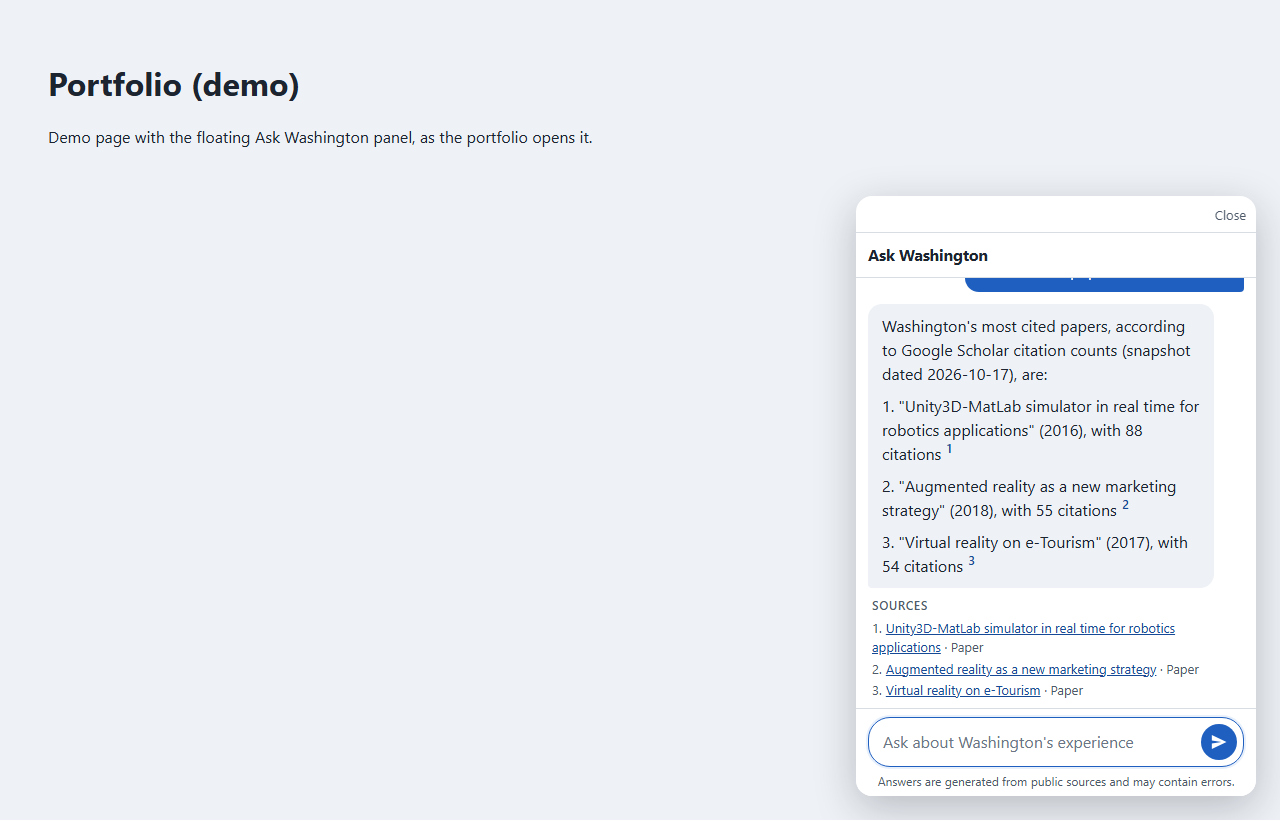
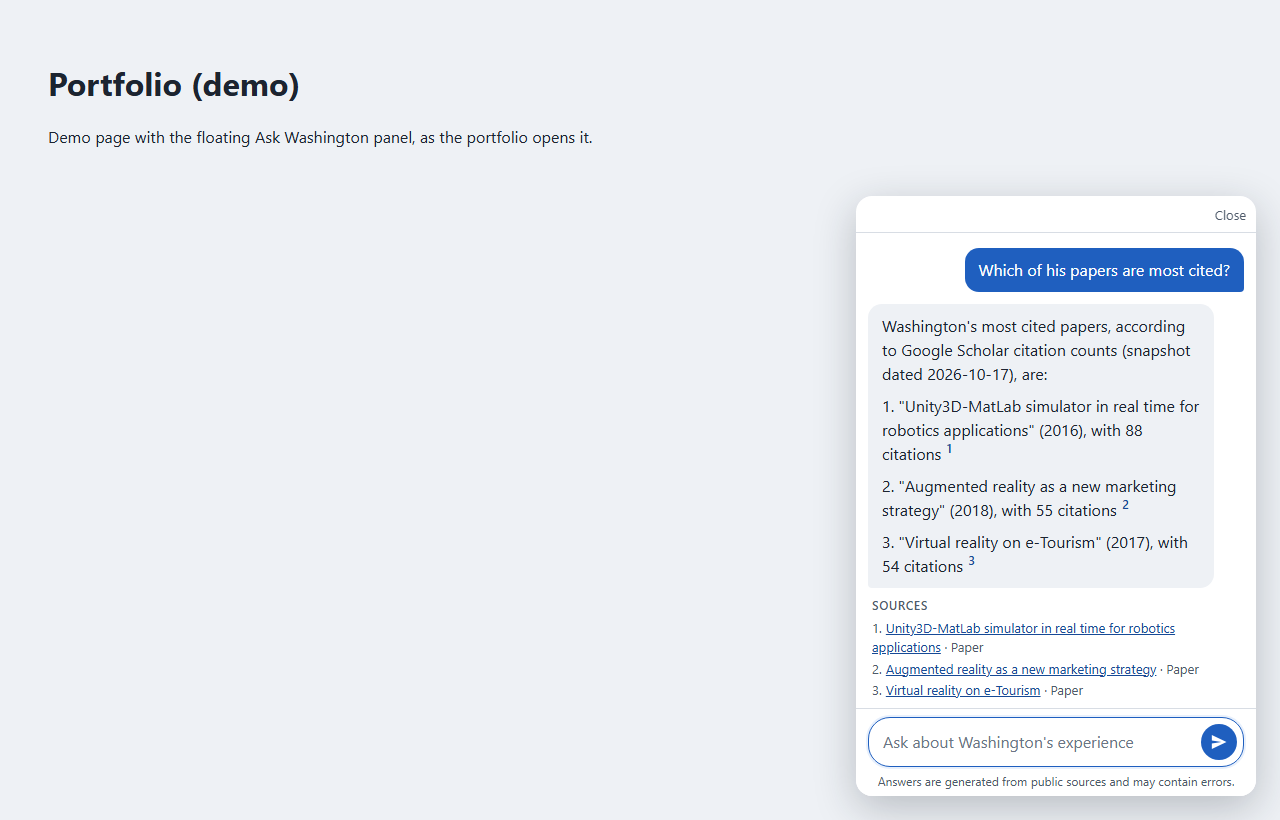
P20d: hide the chat header in widget mode
- ?embed=1: the portfolio panel already shows the title, so the header is
  visually hidden (h1 kept for screen readers; subtitle and profile links out)
- The full page keeps its header
- Playwright checks for both cases; widget screenshots updated; README and
  PROJECT.md

Changed region(s): [[0.6875, 0.3049, 0.9688, 0.3659]]

diff --git a/app/static/styles.css b/app/static/styles.css
@@ -329,8 +329,18 @@ textarea::placeholder { color: #6b7686; }
 /* ---- widget mode (?embed=1): the portfolio panel gives the iframe a fixed height ---- */
 
 body.embed { background: var(--surface); }
-body.embed .chat-header-inner { padding: 10px 12px; flex-direction: row; }
-body.embed h1 { font-size: 1rem; }
+/* The portfolio panel already shows the "Ask Washington" title: hide the header visually
+   but keep the h1 for screen readers. */
+body.embed .chat-header {
+  position: absolute;
+  width: 1px;
+  height: 1px;
+  margin: -1px;
+  overflow: hidden;
+  clip: rect(0, 0, 0, 0);
+  white-space: nowrap;
+  border: 0;
+}
 body.embed .subtitle,
 body.embed .profiles { display: none; }
 body.embed .thread-inner { padding: 12px 12px 6px; }

diff --git a/tests/e2e/test_chat_ui.py b/tests/e2e/test_chat_ui.py
@@ -83,6 +83,10 @@ def open_page(page, lang="en", viewport=None):
 
 def test_initial_state(app_server, page):
     open_page(page)
+    # The full page keeps its visible header.
+    sync_api.expect(page.locator("h1")).to_be_visible()
+    sync_api.expect(page.locator("h1")).to_have_text(EN["title"])
+    sync_api.expect(page.locator(".profiles")).to_be_visible()
     sync_api.expect(page.locator(".msg.assistant .bubble")).to_have_text(EN["greeting"])
     chips = page.locator(".chip")
     sync_api.expect(chips).to_have_count(4)
@@ -229,8 +233,15 @@ def test_widget_in_portfolio_panel_fills_height_and_scrolls_only_the_thread(
     frame = page.frame_locator("#widget")
     wait_ready(frame)
 
+    # The panel shows the title, so the widget's header is hidden (h1 kept for screen readers).
+    header = frame.locator(".chat-header").bounding_box()
+    assert header["width"] <= 1 and header["height"] <= 1
+    sync_api.expect(frame.locator("h1")).to_have_text(ES["title"])
     sync_api.expect(frame.locator(".subtitle")).to_be_hidden()
     sync_api.expect(frame.locator(".profiles")).to_be_hidden()
+    thread_top = frame.locator("#thread").bounding_box()["y"]
+    iframe_top = page.locator("#widget").bounding_box()["y"]
+    assert thread_top - iframe_top <= 1  # the thread starts at the top of the panel
     sync_api.expect(frame.locator(".chip").first).to_have_text(ES["suggestion_1"])
 
     box = frame.locator("#question")

diff --git a/PROJECT.md b/PROJECT.md
@@ -258,6 +258,10 @@ El repo ya es público, así que no se reescribe el historial: en un commit norm
 
 Quedan esas frases, a propósito, en `data/source_corrections.yaml` (el mecanismo necesita el texto literal para encontrarlo), en esta bitácora (P20c documenta qué estaba mal) y en `tests/test_ingestion.py` (frases de prueba del mecanismo). Las métricas guardadas en los JSON de evaluación no se recalcularon: son el registro de esas corridas.
 
+### 2026-10-18 - P20d widget sin cabecera
+
+En modo widget (`?embed=1`) la cabecera "Ask Washington" queda oculta a la vista, porque el panel del portafolio ya muestra ese título; el `h1` sigue disponible para lectores de pantalla y el subtítulo y los perfiles quedan fuera. La página completa mantiene su cabecera. Pruebas de Playwright ajustadas (cabecera oculta y hilo desde el borde superior del panel en el widget; cabecera visible en la página completa) y capturas del widget actualizadas en `reports/screenshots/p20b/`.
+
 ## Referencias de chats (P20b)
 
 Revisadas el 2026-10-18 en un Chromium sin sesión (Playwright), solo páginas públicas; las capturas se guardaron fuera del repositorio. ChatGPT (verificación de Cloudflare), el Messenger de Intercom y Tidio no cargan en un navegador automatizado: de Intercom se usó su documentación y no se intentó saltar ninguna protección.

diff --git a/README.md b/README.md
@@ -340,7 +340,7 @@ Full analysis, including the questions that still fail: `reports/P18-4_evaluacio
 
 ## Embedding the widget
 
-Ask Washington has no language switch of its own: it follows the page that contains it. `?embed=1` gives the widget: the same chat with only the title in its header (the panel provides the close button). It fills 100% of the iframe height: only the thread scrolls and the composer stays at the bottom. **Give the iframe a fixed height** (the portfolio's floating panel does, about 400 x 600 px); the widget does not grow with its content.
+Ask Washington has no language switch of its own: it follows the page that contains it. `?embed=1` gives the widget: the same chat without its header, since the portfolio panel already shows the title and the close button (the `h1` stays available to screen readers). It fills 100% of the iframe height: only the thread scrolls and the composer stays at the bottom. **Give the iframe a fixed height** (the portfolio's floating panel does, about 400 x 600 px); the widget does not grow with its content.
 
 The portfolio at https://washingtonquevedo.com embeds it in a floating panel. Production allows only the portfolio:
 
